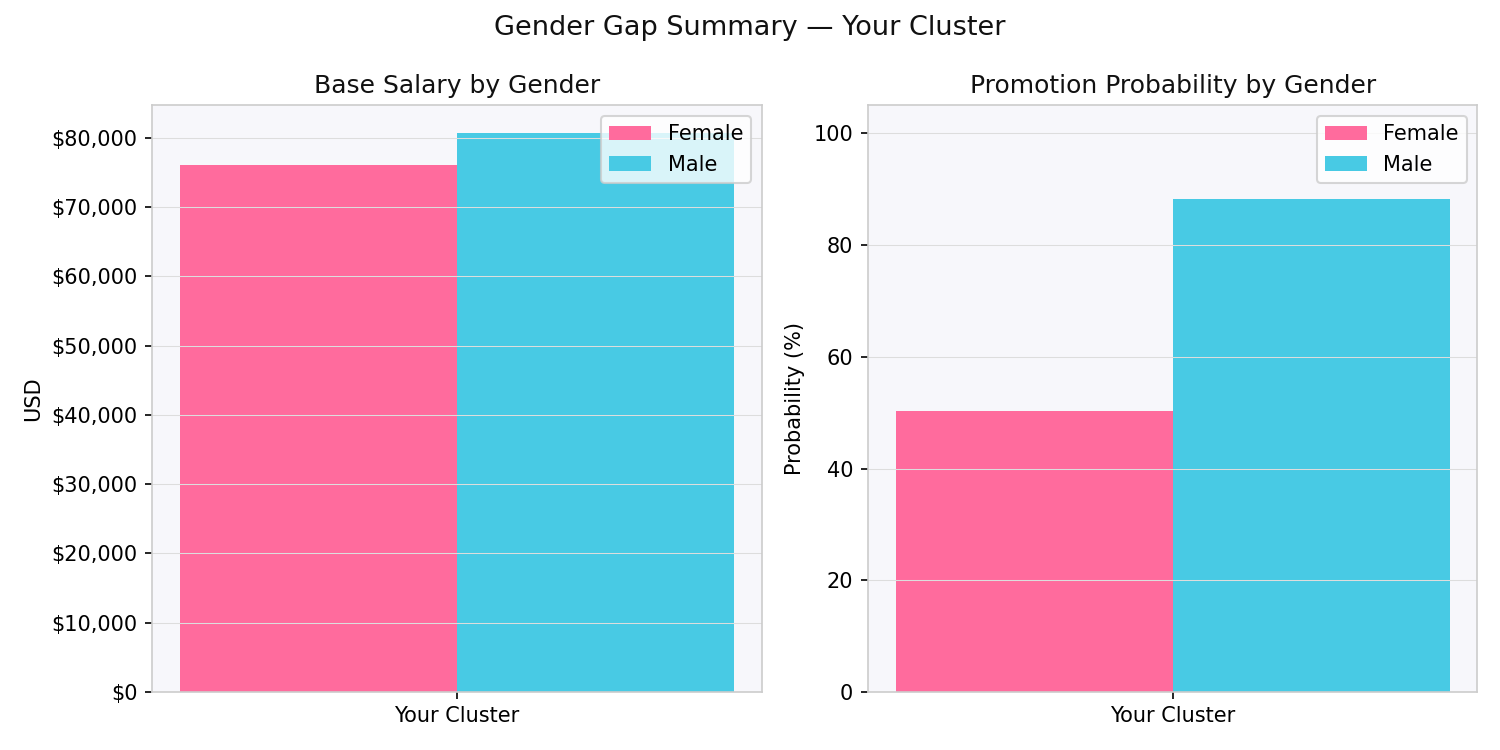
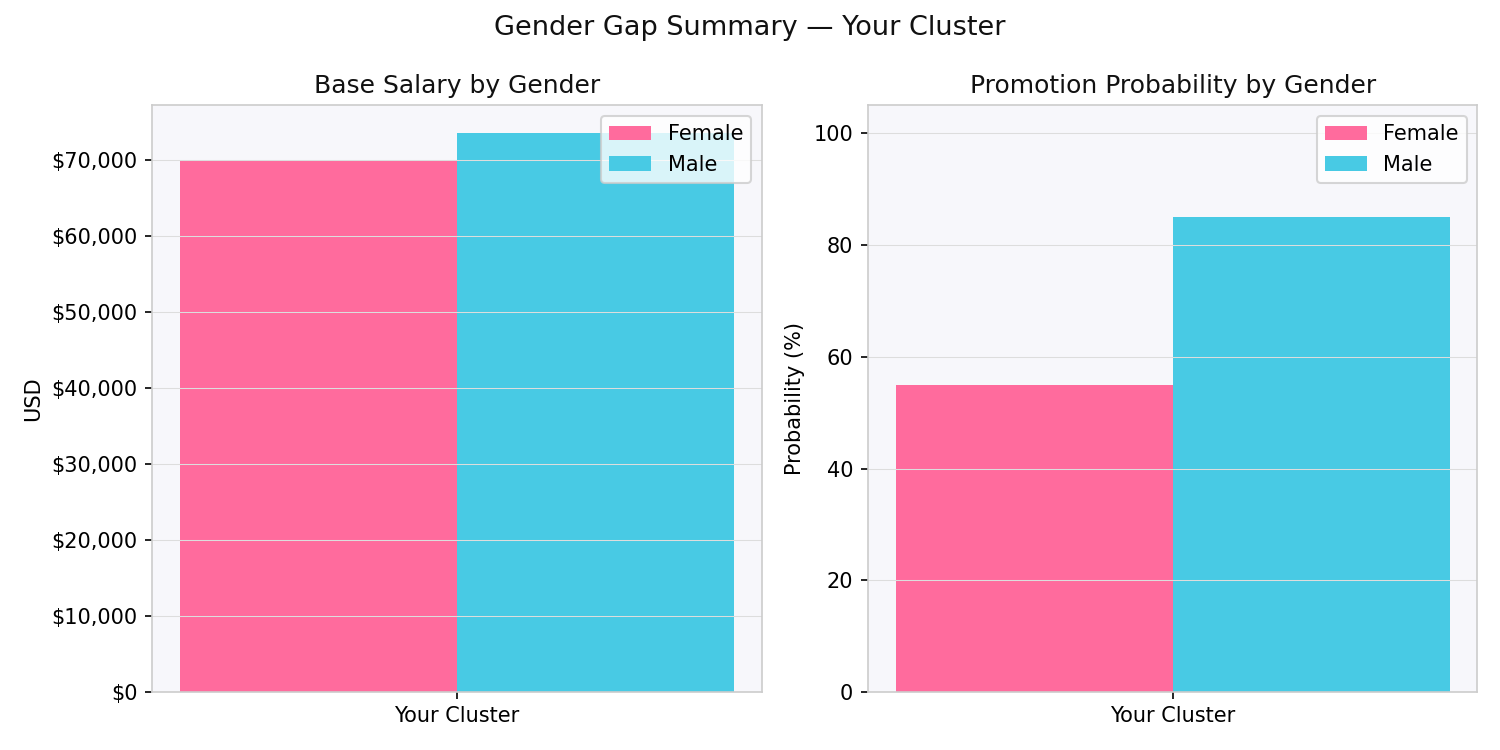
connected api endpoint to linked in still have to have match algorithm currently set to 0

diff --git a/src/App.jsx b/src/App.jsx
@@ -556,13 +556,13 @@ const LoadingOverlay = () => (
 // ─────────────────────────────────────────────────────────────────────────────
 // LINKEDIN / JOB MATCHES VIEW
 // ─────────────────────────────────────────────────────────────────────────────
-function LinkedInView({ p }) {
+function LinkedInView({ p, jobs }) {
   const [filter, setFilter] = useState("All");
   const filters = ["All", "Remote", "Hybrid", "On-site"];
 
   const filtered = filter === "All"
-    ? HARDCODED_JOBS
-    : HARDCODED_JOBS.filter(j => j.workType === filter);
+    ? jobs
+    : jobs.filter(j => j.workType === filter);
 
   const yourGap = (job) => job.menAvg - job.womenAvg;
 
@@ -574,7 +574,7 @@ function LinkedInView({ p }) {
       {/* Header */}
       <div style={{ marginBottom: 20 }}>
         <h2 style={{ fontFamily: "'Cormorant Garamond',serif", fontSize: 32, fontWeight: 800, margin: "0 0 6px", color: C.text }}>
-          Job Matches For {p.name || "You"} 
+          Job Matches For {p.name || "You"}
         </h2>
         <p style={{ fontSize: 12, color: C.muted, fontFamily: "'DM Mono',monospace", display: "flex", alignItems: "center", gap: 8 }}>
           {/* {p.zipcode ? `Near ${p.zipcode} · ` : ""}Ranked by pay equity · hardcoded placeholder */}
@@ -708,6 +708,7 @@ function LinkedInView({ p }) {
               }}
                 onMouseEnter={e => e.currentTarget.style.background = C.roseDark}
                 onMouseLeave={e => e.currentTarget.style.background = C.rose}
+                onClick={() => job.url && window.open(job.url, "_blank")}
               >Apply →</button>
             </div>
           </div>
@@ -756,6 +757,7 @@ export default function HerPath() {
 
   const [mlResult, setMlResult] = useState(null);
   const [mlLoading, setMlLoading] = useState(false);
+  const [jobs, setJobs] = useState(HARDCODED_JOBS);
 
   useEffect(() => {
     window.scrollTo(0, 0);
@@ -827,6 +829,17 @@ export default function HerPath() {
     } finally {
       setMlLoading(false);
     }
+
+    try {
+      const role    = p.specific_role || p.field;
+      const jobsRes = await fetch(`/api/jobs?role=${encodeURIComponent(role)}&zipcode=${encodeURIComponent(p.zipcode || "")}`);
+      if (jobsRes.ok) {
+        const data = await jobsRes.json();
+        if (data.length > 0) setJobs(data);
+      }
+    } catch (err) {
+      console.error("Jobs API unreachable:", err);
+    }
   };
 
   // ── HERO ──
@@ -884,7 +897,7 @@ export default function HerPath() {
       )}
 
       {resultsTab === "linkedin" && (
-        <LinkedInView p={p} />
+        <LinkedInView p={p} jobs={jobs} />
       )}
 
       {resultsTab === "edit" && (

diff --git a/vite.config.js b/vite.config.js
@@ -11,6 +11,10 @@ export default defineConfig({
         changeOrigin: true,
         rewrite: (path) => path.replace(/^\/ml-api/, ''),
       },
+      '/api': {
+        target: 'http://localhost:8001',
+        changeOrigin: true,
+      },
     },
   },
 })

diff --git a/backend/main.py b/backend/main.py
@@ -1,0 +1,85 @@
+from fastapi import FastAPI, Query
+from fastapi.middleware.cors import CORSMiddleware
+from dotenv import load_dotenv
+from pathlib import Path
+
+load_dotenv(Path(__file__).parent.parent / ".env")
+
+from .jobs import get_listings
+from .gap import compute_gap
+from .location import resolve_location
+from . import cache
+
+app = FastAPI(title="HerPath Jobs API")
+
+app.add_middleware(
+    CORSMiddleware,
+    allow_origins=["*"],
+    allow_methods=["*"],
+    allow_headers=["*"],
+)
+
+
[email redacted]("/api/jobs")
+async def jobs(
+    role: str = Query(...),
+    zipcode: str = Query(""),
+):
+    cache_key = f"jobs:{role}:{zipcode}"
+    cached = cache.get(cache_key)
+    if cached is not None:
+        return cached
+
+    loc   = await resolve_location(zipcode) if zipcode else None
+    city  = loc["city"]  if loc else "United States"
+    state = loc["state"] if loc else None
+
+    listings = await get_listings(role, city, state)
+    gap      = compute_gap(role, city)
+
+    if loc:
+        city_lower  = city.lower()
+        state_lower = (state or "").lower()
+        def location_matches(loc_str):
+            if not loc_str:
+                return False
+            s = loc_str.lower()
+            return city_lower in s or (state_lower and state_lower in s)
+        listings = [j for j in listings if location_matches(j.get("location"))]
+
+    listings.sort(key=lambda j: j.get("days_old", 9999))
+
+    gap_ratio = (gap["gap_ratio"] / 100) if gap else 0.82
+
+    result = []
+    for i, j in enumerate(listings):
+        sal_mid = j.get("salary_mid")
+        if sal_mid:
+            men_avg   = sal_mid
+            women_avg = round(sal_mid * gap_ratio)
+            women_pct = round(gap_ratio * 100)
+        elif gap:
+            men_avg   = gap["mens_market_rate"]
+            women_avg = gap["womens_expected"]
+            women_pct = gap["gap_ratio"]
+        else:
+            men_avg = women_avg = women_pct = None
+
+        result.append({
+            "id":          i + 1,
+            "title":       j["title"],
+            "company":     j["company"] or "—",
+            "companyType": j.get("category") or "Company",
+            "location":    j["location"] or city,
+            "workType":    j["work_type"] or "On-site",
+            "distance":    None,
+            "match":       0,
+            "posted":      j["posted_at"] or "—",
+            "womenAvg":    women_avg,
+            "menAvg":      men_avg,
+            "womenPct":    women_pct,
+            "url":         j.get("url"),
+        })
+
+    cache.set(cache_key, result)
+    return result

diff --git a/backend/jobs.py b/backend/jobs.py
@@ -20,17 +20,19 @@ _CONTRACT_LABELS = {
 }
 
 
-def _posted_ago(iso_str: str) -> str | None:
+def _posted_info(iso_str: str) -> tuple[str | None, int]:
     try:
         dt   = datetime.fromisoformat(iso_str.replace("Z", "+00:00"))
         days = (datetime.now(timezone.utc) - dt).days
-        if days == 0: return "today"
-        if days == 1: return "1 day ago"
-        if days < 7:  return f"{days} days ago"
-        weeks = days // 7
-        return f"{weeks} week{'s' if weeks > 1 else ''} ago"
+        if days == 0: label = "today"
+        elif days == 1: label = "1 day ago"
+        elif days < 7:  label = f"{days} days ago"
+        else:
+            weeks = days // 7
+            label = f"{weeks} week{'s' if weeks > 1 else ''} ago"
+        return label, days
     except Exception:
-        return None
+        return None, 9999
 
 
 def _parse_level(title: str) -> str | None:
@@ -98,6 +100,7 @@ async def _fetch_adzuna(role: str, location: str) -> list[dict]:
             title    = j.get("title") or ""
             loc      = (j.get("location") or {}).get("display_name")
 
+            posted_label, days_old = _posted_info(j["created"]) if j.get("created") else (None, 9999)
             out.append({
                 "source":        "adzuna",
                 "title":         title,
@@ -105,7 +108,8 @@ async def _fetch_adzuna(role: str, location: str) -> list[dict]:
                 "location":      loc,
                 "work_type":     _parse_work_type(title, loc),
                 "level":         _parse_level(title),
-                "posted_at":     _posted_ago(j["created"]) if j.get("created") else None,
+                "posted_at":     posted_label,
+                "days_old":      days_old,
                 "contract_type": _CONTRACT_LABELS.get(contract),
                 "category":      (j.get("category") or {}).get("label"),
                 "salary_min":    round(sal_min) if sal_min else None,
@@ -149,6 +153,7 @@ async def _fetch_jsearch(role: str, location: str) -> list[dict]:
             loc       = f"{city_str}, {state_str}".strip(", ") or None
             title     = j.get("job_title") or ""
 
+            posted_label, days_old = _posted_info(j["job_posted_at_datetime_utc"]) if j.get("job_posted_at_datetime_utc") else (None, 9999)
             out.append({
                 "source":        "jsearch",
                 "title":         title,
@@ -156,8 +161,8 @@ async def _fetch_jsearch(role: str, location: str) -> list[dict]:
                 "location":      loc,
                 "work_type":     _parse_work_type(title, loc, j.get("job_is_remote")),
                 "level":         _parse_level(title),
-                "posted_at":     _posted_ago(j["job_posted_at_datetime_utc"])
-                                 if j.get("job_posted_at_datetime_utc") else None,
+                "posted_at":     posted_label,
+                "days_old":      days_old,
                 "contract_type": contract,
                 "category":      None,
                 "salary_min":    round(sal_min) if sal_min else None,